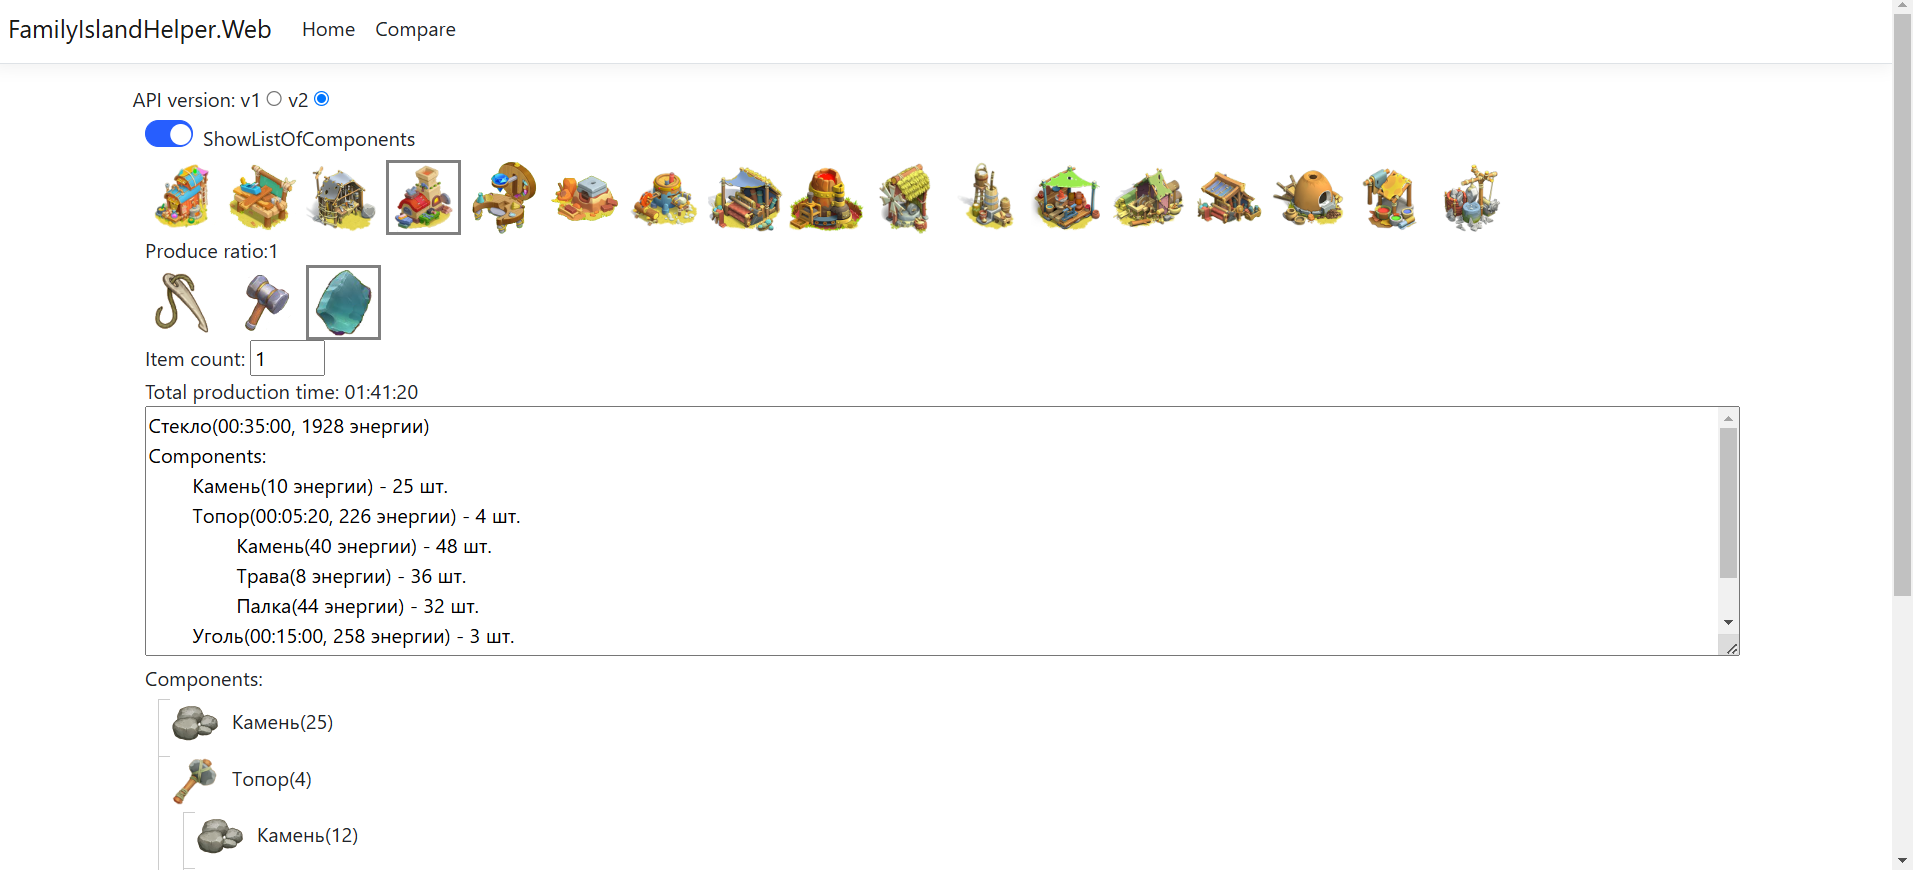
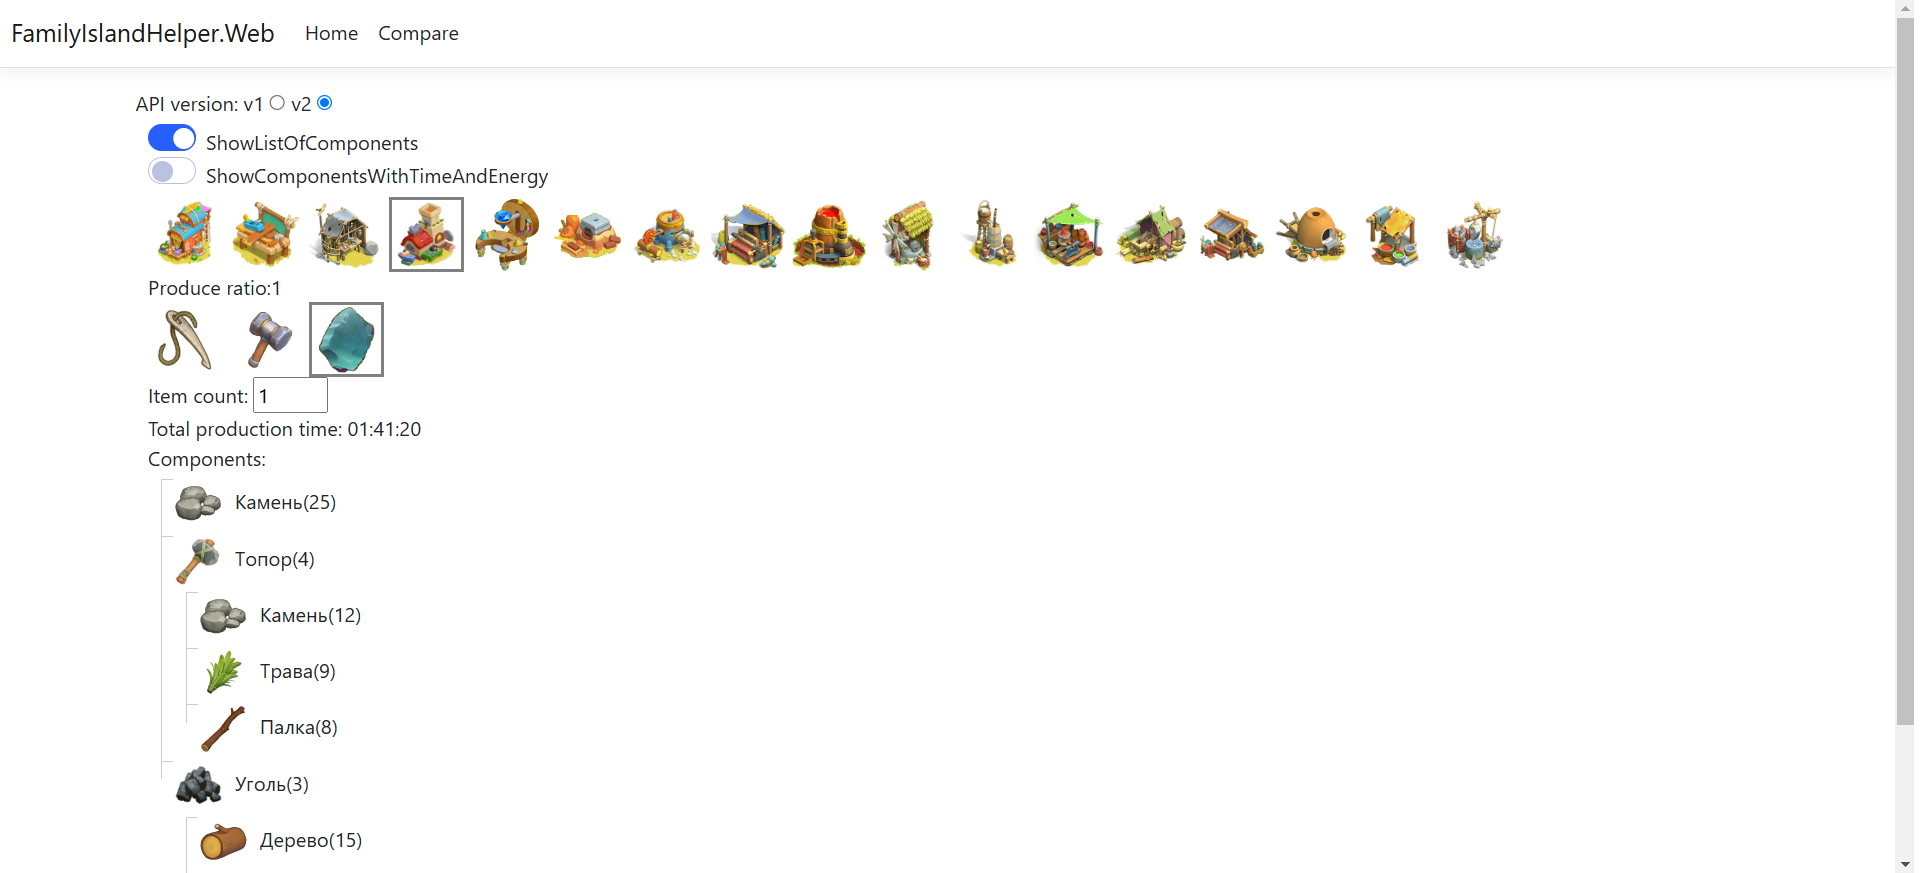
web: Add flag ShowComponentsWithTimeAndEnergy to control showing of ItemInfo area

diff --git a/FamilyIslandHelper.Web/wwwroot/js/site.js b/FamilyIslandHelper.Web/wwwroot/js/site.js
@@ -9,6 +9,9 @@ var ItemCount2 = document.getElementById("ItemCount2");
 var ShowListOfComponents = document.getElementById("ShowListOfComponents");
 var ShowListOfComponentsForAll = document.getElementById("ShowListOfComponentsForAll");
 
+var showComponentsWithTimeAndEnergy = document.getElementById("ShowComponentsWithTimeAndEnergy");
+var showComponentsWithTimeAndEnergyForAll = document.getElementById("ShowComponentsWithTimeAndEnergyForAll");
+
 if (BuildingName != null) {
 	BuildingName.addEventListener("change", function () {
 		document.getElementById('mainForm').submit();
@@ -52,6 +55,17 @@ if (ShowListOfComponents != null) {
 
 if (ShowListOfComponentsForAll != null) {
 	ShowListOfComponentsForAll.addEventListener("change", function () {
+		document.getElementById('mainFormCompare').submit();
+	});
+}
+
+if (showComponentsWithTimeAndEnergy != null) {
+	showComponentsWithTimeAndEnergy.addEventListener("change", function () {
+		document.getElementById('mainForm').submit();
+	});
+}
+if (showComponentsWithTimeAndEnergyForAll != null) {
+	showComponentsWithTimeAndEnergyForAll.addEventListener("change", function () {
 		document.getElementById('mainFormCompare').submit();
 	});
 }

diff --git a/FamilyIslandHelper.Web.Tests/CompareControllerTest.cs b/FamilyIslandHelper.Web.Tests/CompareControllerTest.cs
@@ -24,31 +24,24 @@ namespace FamilyIslandHelper.Web.Tests
 				3.1. Select building.
 					3.1.1. Check that building is selected.
 					3.1.2. Check that the 1st item from this building is selected.
-					3.1.3. Check item info.
-					3.1.4. Check total time info.
+					3.1.3. Check total time info.
 					3.1.4. Check that another item from this building is not selected.
 				3.2. Select Item 2 from current building.
 					3.2.1. Check that Item 2 from this building is selected.
-					3.2.2. Check item info.
-				3.3. Turn on showing of list of components.
-					3.3.1. Check that item info contains Components info.
-					3.3.2. Check that components tree contains all necessary components.
-				3.4. Set ItemCount = 2.
-					3.4.1. Check that item info is updated.
-			4. Turn off showing of list of components.
+					3.2.2. Check that components tree contains all necessary components.
+			4. Turn on showing of components with time and energy.
 			5. Check Component 2.
 				5.1. Select building.
 					5.1.1. Check that building is selected.
 					5.1.2. Check that the 1st item from this building is selected.
 					5.1.3. Check item info.
 					5.1.4. Check total time info.
-					5.1.4. Check that another item from this building is not selected.
+					5.1.5. Check that another item from this building is not selected.
 				5.2. Select Item 2 from current building.
 					5.2.1. Check that Item 2 from this building is selected.
 					5.2.2. Check item info.
-				5.3. Turn on showing of list of components.
-					5.3.1. Check that item info contains Components info.
-					5.3.2. Check that components tree contains all necessary components.
+					5.2.3. Check that item info contains Components info.
+					5.2.4. Check that components tree contains all necessary components.
 				5.4. Set ItemCount = 2.
 					5.4.1. Check that item info is updated.
 			6. Check item compare info.
@@ -63,10 +56,13 @@ namespace FamilyIslandHelper.Web.Tests
 
 				driver.FindElement(By.Id(testDataDictionary["apiVersionId"])).Click();
 
+				//3
 				CheckComponent(testDataDictionary, 1);
 
-				driver.FindElement(By.Id("ShowListOfComponentsForAll")).Click();
+				//4
+				driver.FindElement(By.Id("ShowComponentsWithTimeAndEnergyForAll")).Click();
 
+				//5
 				CheckComponent(testDataDictionary, 2);
 
 				Assert.That(driver.FindElement(By.Id("ItemCompareInfo")).Text, Is.Not.Empty);
@@ -95,43 +91,61 @@ namespace FamilyIslandHelper.Web.Tests
 			building = component.FindElement(By.Id(testDataDictionary["buildingId"]));
 			Assert.That(building.GetAttribute("class"), Is.EqualTo(ClassesForSelectedBuilding));
 
+			//3.1.2/5.1.2
 			var item1 = component.FindElement(By.Id(testDataDictionary["item1Id"]));
 			Assert.That(item1.GetAttribute("class"), Is.EqualTo("itemNameImage selectedImage"));
 
-			var itemInfo = component.FindElement(By.Id(itemInfoId));
-			Assert.That(itemInfo.Text, Does.Contain(testDataDictionary["item1Info"]));
+			if (componentNumber == 2)
+			{
+				//5.1.3
+				var itemInfo = component.FindElement(By.Id(itemInfoId));
+				Assert.That(itemInfo.Text, Does.Contain(testDataDictionary["item1Info"]));
+			}
 
-			//3.1.4/5.1.4
+			//3.1.3/5.1.4
 			var totalTimeInfo = driver.FindElement(By.Id(totalTimeInfoId));
 			Assert.That(totalTimeInfo.Text, Is.EqualTo(testDataDictionary["totalTimeInfo1"]));
 
+			//3.1.4/5.1.5
 			var item2 = component.FindElement(By.Id(testDataDictionary["item2Id"]));
 			Assert.That(item2.GetAttribute("class"), Is.EqualTo("itemNameImage"));
+
+			//3.2/5.2
 			item2.Click();
+
+			//3.2.1/5.2.1
 			component = driver.FindElement(By.Id(componentId));
 			item2 = component.FindElement(By.Id(testDataDictionary["item2Id"]));
 			Assert.That(item2.GetAttribute("class"), Is.EqualTo("itemNameImage selectedImage"));
 
-			itemInfo = component.FindElement(By.Id(itemInfoId));
-			Assert.That(itemInfo.Text, Does.Contain(testDataDictionary["item2Info"]));
+			if (componentNumber == 2)
+			{
+				//5.2.2
+				var itemInfo = component.FindElement(By.Id(itemInfoId));
+				Assert.That(itemInfo.Text, Does.Contain(testDataDictionary["item2Info"]));
 
-			driver.FindElement(By.Id("ShowListOfComponentsForAll")).Click();
+				//5.2.3
+				component = driver.FindElement(By.Id(componentId));
+				itemInfo = component.FindElement(By.Id(itemInfoId));
+				Assert.That(itemInfo.Text, Does.Contain("Components"));
+			}
 
-			component = driver.FindElement(By.Id(componentId));
-			itemInfo = component.FindElement(By.Id(itemInfoId));
-			Assert.That(itemInfo.Text, Does.Contain("Components"));
-
-			//3.3.2/5.3.2
+			//3.2.2/5.2.4
 			var componentsTree = driver.FindElement(By.Id(componentsTreeId));
 			var componentsTreeImages = componentsTree.FindElements(By.TagName("img"));
 			Assert.That(componentsTreeImages, Has.Count.EqualTo(int.Parse(testDataDictionary["expectedComponentsTreeImagesCount"])));
 
-			var itemCount = component.FindElement(By.Id(itemCountId));
-			new Actions(driver).MoveToElement(itemCount).Click().SendKeys(Keys.Backspace).SendKeys("2").SendKeys(Keys.Enter).Perform();
+			if (componentNumber == 2)
+			{
+				//5.4
+				var itemCount = component.FindElement(By.Id(itemCountId));
+				new Actions(driver).MoveToElement(itemCount).Click().SendKeys(Keys.Backspace).SendKeys("2").SendKeys(Keys.Enter).Perform();
 
-			component = driver.FindElement(By.Id(componentId));
-			itemInfo = component.FindElement(By.Id(itemInfoId));
-			Assert.That(itemInfo.Text, Does.Contain(testDataDictionary["item1InfoFor2"]));
+				//5.4.1
+				component = driver.FindElement(By.Id(componentId));
+				var itemInfo = component.FindElement(By.Id(itemInfoId));
+				Assert.That(itemInfo.Text, Does.Contain(testDataDictionary["item1InfoFor2"]));
+			}
 		}
 	}
 }

diff --git a/FamilyIslandHelper.Web.Tests/HomeControllerTest.cs b/FamilyIslandHelper.Web.Tests/HomeControllerTest.cs
@@ -25,17 +25,15 @@ namespace FamilyIslandHelper.Web.Tests
 			3. Select Building.
 				3.1. Check that building is selected.
 				3.2. Check that the 1st item from this building is selected.
-				3.3. Check item info.
-				3.4. Check total time info.
-				3.5. Check that another item from this building is not selected.
+				3.3. Check total time info.
+				3.4. Check that another item from this building is not selected.
 			4. Select Item 2 from current building.
 				4.1. Check that Item 2 from this building is selected.
-				4.2. Check item info.
-			5. Turn on showing of list of components.
-				5.1. Check that item info contains Components info.
-				5.2. Check that components tree contains all necessary components.
-			6. Select producable item in components tree.
-				6.1. Check that producable item is not visible.
+				4.2. Check that components tree contains all necessary components.
+			5. Select producable item in components tree.
+				5.1. Check that producable item is not visible.
+			6. Turn on showing of components with time and energy
+				6.1. Check that item info is shown.
 			7. Set ItemCount = 2.
 				7.1. Check that item info is updated.
 		")]
@@ -62,44 +60,45 @@ namespace FamilyIslandHelper.Web.Tests
 				var item1 = driver.FindElement(By.Id(testDataDictionary["item1Id"]));
 				Assert.That(item1.GetAttribute("class"), Is.EqualTo("itemNameImage selectedImage"));
 
-				var itemInfo = driver.FindElement(By.Id(ItemInfoId));
-				Assert.That(itemInfo.Text, Does.Contain(testDataDictionary["item1Info"]));
-
-				//3.4
+				//3.3
 				var totalTimeInfo = driver.FindElement(By.Id("totalTimeInfo"));
 				Assert.That(totalTimeInfo.Text, Is.EqualTo(testDataDictionary["totalTimeInfo1"]));
 
+				//3.4
 				var item2 = driver.FindElement(By.Id(testDataDictionary["item2Id"]));
 				Assert.That(item2.GetAttribute("class"), Is.EqualTo("itemNameImage"));
+				
+				//4
 				item2.Click();
+				//4.1
 				item2 = driver.FindElement(By.Id(testDataDictionary["item2Id"]));
 				Assert.That(item2.GetAttribute("class"), Is.EqualTo("itemNameImage selectedImage"));
 
-				itemInfo = driver.FindElement(By.Id(ItemInfoId));
-				Assert.That(itemInfo.Text, Does.Contain(testDataDictionary["item2Info"]));
-
-				driver.FindElement(By.Id("ShowListOfComponents")).Click();
-
-				//5.1
-				itemInfo = driver.FindElement(By.Id(ItemInfoId));
-				Assert.That(itemInfo.Text, Does.Contain("Components"));
-
-				//5.2
+				//4.2
 				var componentsTree = driver.FindElement(By.Id("componentsTree"));
 				var componentsTreeImages = componentsTree.FindElements(By.TagName("img"));
 				Assert.That(componentsTreeImages, Has.Count.EqualTo(int.Parse(testDataDictionary["expectedComponentsTreeImagesCount"])));
 
 				var itemComponentImage = driver.FindElement(By.Id(testDataDictionary["componentsTreeItemComponentImageId"]));
 				Assert.That(itemComponentImage.Displayed, Is.True);
+				//5
 				driver.FindElement(By.Id(testDataDictionary["componentsTreeItemImageId"])).Click();
 				
-				//6.1
+				//5.1
 				Assert.That(itemComponentImage.Displayed, Is.False);
+
+				//6
+				driver.FindElement(By.Id("ShowComponentsWithTimeAndEnergy")).Click();
+
+				//6.1
+				var itemInfo = driver.FindElement(By.Id(ItemInfoId));
+				Assert.That(itemInfo.Text, Does.Contain("Components"));
 
 				//7
 				var itemCount = driver.FindElement(By.Id("ItemCount"));
 				new Actions(driver).MoveToElement(itemCount).Click().SendKeys(Keys.Backspace).SendKeys("2").SendKeys(Keys.Enter).Perform();
 
+				//7.1
 				itemInfo = driver.FindElement(By.Id(ItemInfoId));
 				Assert.That(itemInfo.Text, Does.Contain(testDataDictionary["item1InfoFor2"]));
 			}

diff --git a/FamilyIslandHelper.Web/Controllers/CompareController.cs b/FamilyIslandHelper.Web/Controllers/CompareController.cs
@@ -43,7 +43,8 @@ namespace FamilyIslandHelper.Web.Controllers
 			var itemName2 = items2.First();
 
 			var itemCount = 1;
-			var showListOfComponents = false;
+			var showListOfComponents = true;
+			var showComponentsWithTimeAndEnergyForAll = false;
 			var item1 = itemHelper.FindItemByName(itemName1);
 			var item2 = itemHelper.FindItemByName(itemName2);
 
@@ -55,20 +56,25 @@ namespace FamilyIslandHelper.Web.Controllers
 				BuildingName1 = buildingName1,
 				BuildingName2 = buildingName2,
 				ShowListOfComponentsForAll = showListOfComponents,
+				ShowComponentsWithTimeAndEnergyForAll = showComponentsWithTimeAndEnergyForAll,
 				Items1 = items1,
 				ItemName1 = itemName1,
 				ItemCount1 = itemCount,
 				TotalTimeInfo1 = ItemInfoService.GetTotalTime(item1, itemCount),
-				ItemInfo1 = ItemInfoService.GetInfoAboutItem(item1, itemCount, showListOfComponents),
 				ComponentsTreeHtml1 = ItemInfoService.GetComponentsTree(apiVersion, item1, showListOfComponents, "componentsTree1"),
 				Items2 = items2,
 				ItemName2 = itemName2,
 				ItemCount2 = itemCount,
 				TotalTimeInfo2 = ItemInfoService.GetTotalTime(item2, itemCount),
-				ItemInfo2 = ItemInfoService.GetInfoAboutItem(item2, itemCount, showListOfComponents),
 				ComponentsTreeHtml2 = ItemInfoService.GetComponentsTree(apiVersion, item2, showListOfComponents, "componentsTree2"),
 				ApiVersion = apiVersion
 			};
+
+			if (showComponentsWithTimeAndEnergyForAll)
+			{
+				compareViewModel.ItemInfo1 = ItemInfoService.GetInfoAboutItem(item1, itemCount, showListOfComponents);
+				compareViewModel.ItemInfo2 = ItemInfoService.GetInfoAboutItem(item2, itemCount, showListOfComponents);
+			}
 
 			return View(compareViewModel);
 		}
@@ -115,8 +121,11 @@ namespace FamilyIslandHelper.Web.Controllers
 			var item1 = itemHelper.FindItemByName(compareViewModel.ItemName1);
 			var item2 = itemHelper.FindItemByName(compareViewModel.ItemName2);
 
-			compareViewModel.ItemInfo1 = ItemInfoService.GetInfoAboutItem(item1, compareViewModel.ItemCount1, compareViewModel.ShowListOfComponentsForAll);
-			compareViewModel.ItemInfo2 = ItemInfoService.GetInfoAboutItem(item2, compareViewModel.ItemCount2, compareViewModel.ShowListOfComponentsForAll);
+			if (compareViewModel.ShowComponentsWithTimeAndEnergyForAll)
+			{
+				compareViewModel.ItemInfo1 = ItemInfoService.GetInfoAboutItem(item1, compareViewModel.ItemCount1, compareViewModel.ShowListOfComponentsForAll);
+				compareViewModel.ItemInfo2 = ItemInfoService.GetInfoAboutItem(item2, compareViewModel.ItemCount2, compareViewModel.ShowListOfComponentsForAll);
+			}
 
 			compareViewModel.TotalTimeInfo1 = ItemInfoService.GetTotalTime(item1, compareViewModel.ItemCount1);
 			compareViewModel.TotalTimeInfo2 = ItemInfoService.GetTotalTime(item2, compareViewModel.ItemCount2);

diff --git a/FamilyIslandHelper.Web/Controllers/HomeController.cs b/FamilyIslandHelper.Web/Controllers/HomeController.cs
@@ -37,7 +37,8 @@ namespace FamilyIslandHelper.Web.Controllers
 			var itemName1 = items1.First();
 
 			var itemCount = 1;
-			var showListOfComponents = false;
+			var showListOfComponents = true;
+			var showComponentsWithTimeAndEnergy = false;
 			var item1 = itemHelper.FindItemByName(itemName1);
 
 			viewModel = new HomeViewModel
@@ -46,14 +47,19 @@ namespace FamilyIslandHelper.Web.Controllers
 				BuildingProduceRatio = buildingHelper.CreateBuilding(buildingName1).ProduceRatio,
 				BuildingName = buildingName1,
 				ShowListOfComponents = showListOfComponents,
+				ShowComponentsWithTimeAndEnergy = showComponentsWithTimeAndEnergy,
 				Items = items1,
 				ItemName = itemName1,
 				ItemCount = itemCount,
 				TotalTimeInfo = ItemInfoService.GetTotalTime(item1, itemCount),
-				ItemInfo = ItemInfoService.GetInfoAboutItem(item1, itemCount, showListOfComponents),
 				ApiVersion = apiVersion,
 				ComponentsTreeHtml = ItemInfoService.GetComponentsTree(apiVersion,item1, showListOfComponents, "componentsTree")
 			};
+
+			if (showComponentsWithTimeAndEnergy)
+			{
+				viewModel.ItemInfo = ItemInfoService.GetInfoAboutItem(item1, itemCount, showListOfComponents);
+			}
 
 			return View(viewModel);
 		}
@@ -88,7 +94,11 @@ namespace FamilyIslandHelper.Web.Controllers
 
 			var item = itemHelper.FindItemByName(viewModel.ItemName);
 
-			viewModel.ItemInfo = ItemInfoService.GetInfoAboutItem(item, viewModel.ItemCount, viewModel.ShowListOfComponents);
+			if (viewModel.ShowComponentsWithTimeAndEnergy)
+			{
+				viewModel.ItemInfo = ItemInfoService.GetInfoAboutItem(item, viewModel.ItemCount, viewModel.ShowListOfComponents);
+			}
+
 			viewModel.TotalTimeInfo = ItemInfoService.GetTotalTime(item, viewModel.ItemCount);
 
 			viewModel.Items = items;

diff --git a/FamilyIslandHelper.Web/Models/CompareViewModel.cs b/FamilyIslandHelper.Web/Models/CompareViewModel.cs
@@ -12,7 +12,9 @@ namespace FamilyIslandHelper.Web.Models
 		public double Building2ProduceRatio { get; set; }
 		public string BuildingName1 { get; set; }
 		public string BuildingName2 { get; set; }
+
 		public bool ShowListOfComponentsForAll { get; set; }
+		public bool ShowComponentsWithTimeAndEnergyForAll { get; set; }
 
 		public List<string> Items1 { get; set; }
 		public List<string> Items2 { get; set; }

diff --git a/FamilyIslandHelper.Web/Models/HomeViewModel.cs b/FamilyIslandHelper.Web/Models/HomeViewModel.cs
@@ -10,7 +10,9 @@ namespace FamilyIslandHelper.Web.Models
 		public List<string> BuildingsNames { get; set; }
 		public double BuildingProduceRatio { get; set; }
 		public string BuildingName { get; set; }
+
 		public bool ShowListOfComponents { get; set; }
+		public bool ShowComponentsWithTimeAndEnergy { get; set; }
 
 		public List<string> Items { get; set; }
 		public int ItemCount { get; set; }
